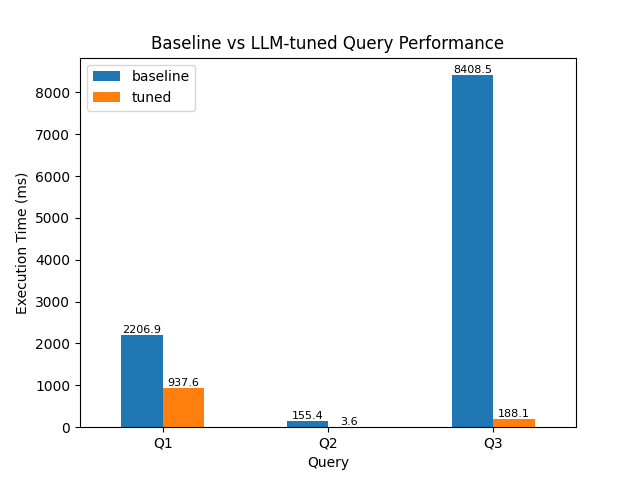
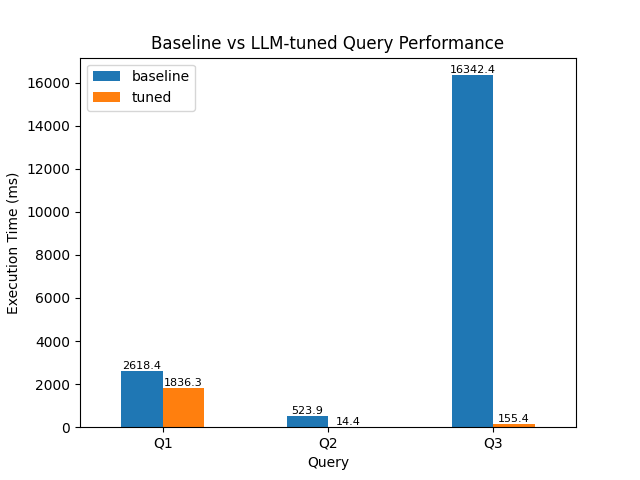
added the data ingestion in minio and loading the data to postgres using minio

diff --git a/Project_DB_Performance_Benchmark/ingestion/postgres_load.py b/Project_DB_Performance_Benchmark/ingestion/postgres_load.py
@@ -1,8 +1,8 @@
 import sqlalchemy
 import pandas as pd
 from dotenv import load_dotenv
-import os
-from io import StringIO
+import os, boto3
+from io import StringIO, BytesIO
 
 # load values from .env
 load_dotenv()
@@ -19,24 +19,23 @@ engine = sqlalchemy.create_engine(connection_string)
 engine.connect()
 
 # minio settings
-s3_endpoint = os.getenv('MINIO_ENDPOINT_CONTAINER', 'http://minio:9000')
-s3_region = os.getenv('MINIO_DEFAULT_REGION', 'us-east-1')
-s3_key = os.getenv('MINIO_ROOT_USER', 'admin')
-s3_secret = os.getenv('MINIO_ROOT_PASSWORD', 'supersecret')
-s3_url = f"s3://{os.getenv('MINIO_BUCKET','raw')}/yellow_tripdata_2025-01.parquet"
-storage_opts = {
-  'key': s3_key,
-  'secret': s3_secret,
-  'client_kwargs': {'endpoint_url': s3_endpoint,
-                    'region_name': s3_region}
-}
+s3 = boto3.client(
+    's3',
+    endpoint_url=os.getenv('MINIO_ENDPOINT_CONTAINER', 'http://minio:9000'),
+    aws_access_key_id=os.getenv('MINIO_ROOT_USER', 'admin'),
+    aws_secret_access_key=os.getenv('MINIO_ROOT_PASSWORD', 'supersecret'),
+    region_name=os.getenv('MINIO_DEFAULT_REGION', 'us-east-1')
+)
+bucket = os.getenv('MINIO_BUCKET','raw')
 
 print(">>> reading file...")
-df = pd.read_parquet(s3_url, storage_options=storage_opts).rename(columns={
-  'VendorID': 'vendor_id',
-  'RatecodeID': 'ratecode_id',
-  'PULocationID': 'pu_location_id',
-  'DOLocationID': 'do_location_id'})
+obj = s3.get_object(Bucket=bucket, Key='yellow_tripdata_2025-01.parquet')
+df = pd.read_parquet(BytesIO(obj['Body'].read())).rename(columns={
+                        'VendorID': 'vendor_id',
+                        'RatecodeID': 'ratecode_id',
+                        'PULocationID': 'pu_location_id',
+                        'DOLocationID': 'do_location_id'
+                        })
 
 cols = ['vendor_id', 'tpep_pickup_datetime', 'tpep_dropoff_datetime',
        'passenger_count', 'trip_distance', 'ratecode_id', 'store_and_fwd_flag',

diff --git a/Project_DB_Performance_Benchmark/README.md b/Project_DB_Performance_Benchmark/README.md
@@ -1,0 +1,69 @@
+## Cloud-based Database Performance Benchmarking with LLM-assisted SQL Tuning
+
+This project simulates enterprise-scale database performance engineering tasks in a cloud-like environment, using PostgreSQL, Docker, and Python for benchmarking and visualisation. It showcases how LLMs (ChatGPT) can assist in query tuning by suggesting rewrites and indexing strategies that improve performance.
+
+### Goals
+- Benchmark and optimise SQL queries in PostgreSQL
+- Automate query benchmarking and log results with Python
+- Apply LLM-assisted SQL tuning (via ChatGPT prompts) to generate query rewrites and indexing hints
+- Visualise baseline vs tuned performance
+
+### Tech Stack
+- **Databases**: PostgreSQL  
+- **Storage/Infra**: Docker, Ubuntu/WSL2
+- **Automation**: Python (psycopg2, pandas)
+- **Visualisation**: matplotlib  
+- **GenAI**: ChatGPT (LLM suggestions for query tuning)
+
+### Folder structure
+```sh
+Cloud_DB_Performance_Engineering/
+├── data/
+│   └── raw/                      # Sample dataset (NYC Taxi: https://www.nyc.gov/site/tlc/about/tlc-trip-record-data.page)
+├── ingestion/
+│   ├── postgres_init.sql         # Create schemas & tables for Postgres
+│   └── postgres_load.py          # Load data into Postgres
+├── benchmarks/
+│   ├── baseline_queries.sql      # Original queries
+│   ├── tuned_queries.sql         # Rewrites suggested by ChatGPT + indexes
+│   ├── run_benchmarks.py         # Execute queries, log timings
+│   └── results.csv               # Benchmark logs (query, time_ms)
+├── plots/
+│   └── plot_results.py           # Plot the comparison results
+├── docker-compose.yaml
+├── requirements.txt
+└── Makefile
+```
+
+### Workflow
+1. **Data Ingestion** – Loaded raw NYC Taxi data (~3.5M rows, January 2025) into PostgreSQL
+2. **Baseline Queries** – Run representative SQL queries, capture timings
+3. **LLM-assisted Tuning** – Asked ChatGPT to improve baseline queries (e.g., change BETWEEN to half-open ranges, suggest composite indexes). Incorporated these into tuned_queries.sql.
+4. **Benchmarking** – Ran both baseline and tuned queries via run_benchmarks.py, saving execution times to results.csv
+5. **Visualisation** – Generated bar chart from results.csv with matplotlib (example_plot.png)
+
+### Outcomes
+- LLM suggested improvements such as:
+  - Rewriting date filters from BETWEEN to half-open ranges for index efficiency
+  - Adding a composite index (pu_location_id, tpep_pickup_datetime)
+- Benchmarks were run on ~3.5M rows of data and showed significant runtime improvements (see `benchmarks/results.csv` for raw timings):
+  - Q1: 57% faster (2.2s → 0.9s)
+  - Q2: 98% faster (155ms → 4ms)
+  - Q3: 98% faster (8.4s → 0.2s)
+
+#### Visual Comparison
+![Visual Comparison](plots/example_plot.png)
+
+### Learnings
+- Built a reproducible benchmarking setup with Docker + PostgreSQL
+- Logged and visualised query performance with Python
+- Showed a practical use of GenAI: leveraging ChatGPT as a SQL tuning assistant rather than writing tuned queries entirely by hand
+- Identified possible future extensions, such as:
+  - Integrating MinIO (S3-compatible object storage) to simulate cloud-based ingestion
+  - Automating LLM-assisted query rewrites via a script
+
+### Potential Problems & Solutions
+- If `make ingest` fails due to missing Python deps after `make up`, run:
+```ubuntu
+docker compose exec -T app pip install SQLAlchemy psycopg2-binary pandas matplotlib
+```

diff --git a/README.md b/README.md
@@ -13,8 +13,8 @@ This project simulates enterprise-scale database performance engineering tasks i
 - Visualise baseline vs tuned performance
 
 ### Tech Stack
-- **Databases**: PostgreSQL  
-- **Storage/Infra**: Docker, Ubuntu/WSL2  
+- **Databases**: PostgreSQL
+- **Storage/Infra**: Docker, Ubuntu/WSL2
 - **Automation**: Python (psycopg2, pandas)
 - **Visualisation**: matplotlib  
 - **GenAI**: ChatGPT (LLM suggestions for query tuning)
@@ -22,8 +22,8 @@ This project simulates enterprise-scale database performance engineering tasks i
 ### Folder structure
 ```sh
 Cloud_DB_Performance_Engineering/
-├── data/
-│   └── raw/                      # Sample dataset (NYC Taxi: https://www.nyc.gov/site/tlc/about/tlc-trip-record-data.page)
+├── data/                         # ignored because of the size issue
+│   └── raw/                      # Dataset (source: NYC Taxi, https://www.nyc.gov/site/tlc/about/tlc-trip-record-data.page)
 ├── ingestion/
 │   ├── postgres_init.sql         # Create schemas & tables for Postgres
 │   └── postgres_load.py          # Load data into Postgres
@@ -88,9 +88,9 @@ A research-driven project focused on improving the efficiency of inequality join
 
 ### Outcomes
 - Showed that **algorithm performance depends heavily on overlap density** in interval datasets  
-- **Modified IEJoin** was the most efficient under low to moderate overlap (≈10–50%)  
-- **Brute-force join** (baseline) outperformed all others under very high overlap (>90%) due to minimal filtering overhead  
-- **Modified RMJ/OMJ**, while theoretically efficient, underperformed than expected and in some cases slower than the baseline, revealing gaps for further optimisation
+  - **Modified IEJoin** was the most efficient under low to moderate overlap (≈10–50%)  
+  - **Brute-force join** (baseline) outperformed all others under very high overlap (>90%) due to minimal filtering overhead  
+  - **Modified RMJ/OMJ**, while theoretically efficient, underperformed than expected and in some cases slower than the baseline, revealing gaps for further optimisation
 - **Modified IEJoin** showed that filtering order matters:
   - Interval-based filtering first (r.B < s.E ∧ r.E > s.B) was faster when overlaps were sparse or moderate (e.g., no overlap or ≈10–50%)
   - Index-based filtering first (r.idx > s.idx) was more efficient when most intervals overlapped (e.g., >90% or full overlap)
@@ -98,11 +98,7 @@ A research-driven project focused on improving the efficiency of inequality join
 
 
 #### Visual Comparison
-<<<<<<< HEAD
 ![output](Thesis_Inequality_Join/output.png)<br/>
-=======
-![output](output.png)
->>>>>>> 23f2267 (expanded the detailed descriptions of the thesis project)
 Performance comparison under different overlap conditions (n = 1k rows):  
 - **Case 0:** No overlap
 - **Case 1:** Full overlap

diff --git a/Thesis_Inequality_Join/README.md b/Thesis_Inequality_Join/README.md
@@ -17,9 +17,9 @@ A research-driven project focused on improving the efficiency of inequality join
 
 ### Outcomes
 - Showed that **algorithm performance depends heavily on overlap density** in interval datasets  
-- **Modified IEJoin** was the most efficient under low to moderate overlap (≈10–50%)  
-- **Brute-force join** (baseline) outperformed all others under very high overlap (>90%) due to minimal filtering overhead  
-- **Modified RMJ/OMJ**, while theoretically efficient, underperformed than expected and in some cases slower than the baseline, revealing gaps for further optimisation
+  - **Modified IEJoin** was the most efficient under low to moderate overlap (≈10–50%)  
+  - **Brute-force join** (baseline) outperformed all others under very high overlap (>90%) due to minimal filtering overhead  
+  - **Modified RMJ/OMJ**, while theoretically efficient, underperformed than expected and in some cases slower than the baseline, revealing gaps for further optimisation
 - **Modified IEJoin** showed that filtering order matters:
   - Interval-based filtering first (r.B < s.E ∧ r.E > s.B) was faster when overlaps were sparse or moderate (e.g., no overlap or ≈10–50%)
   - Index-based filtering first (r.idx > s.idx) was more efficient when most intervals overlapped (e.g., >90% or full overlap)
